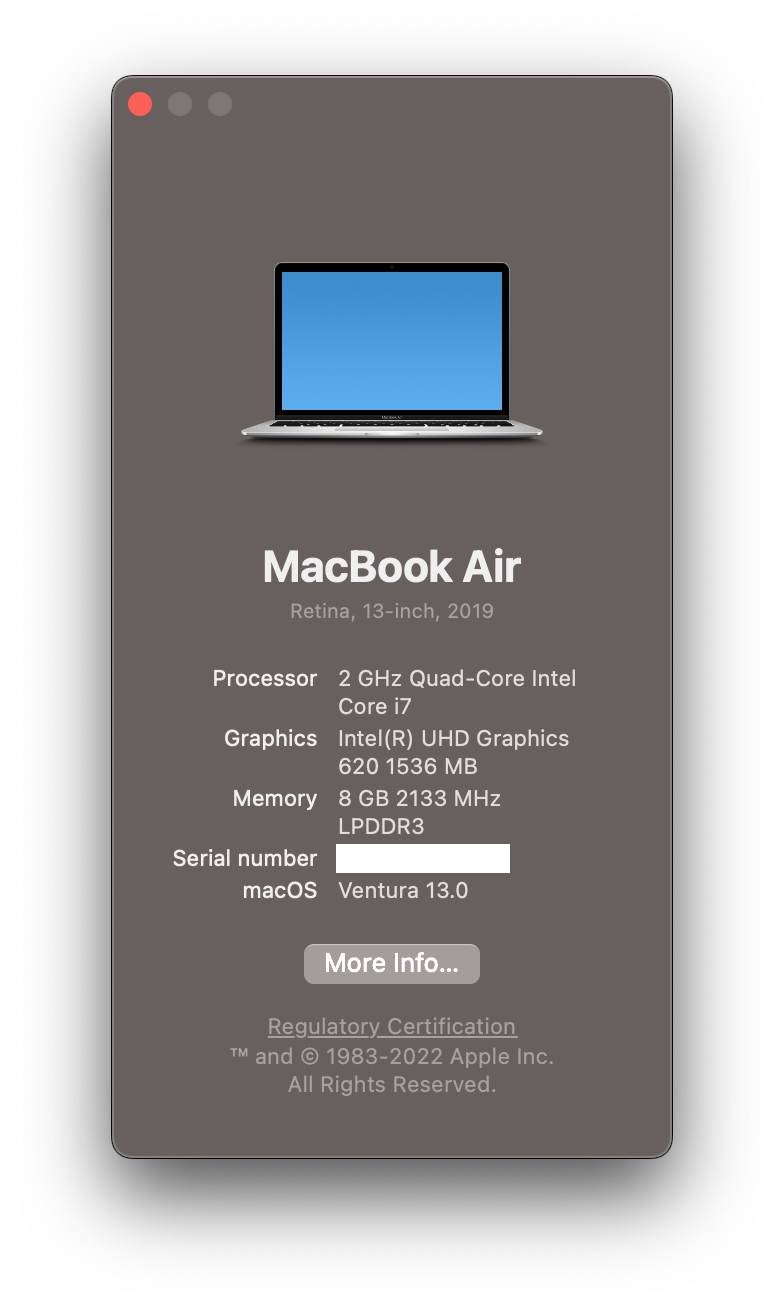
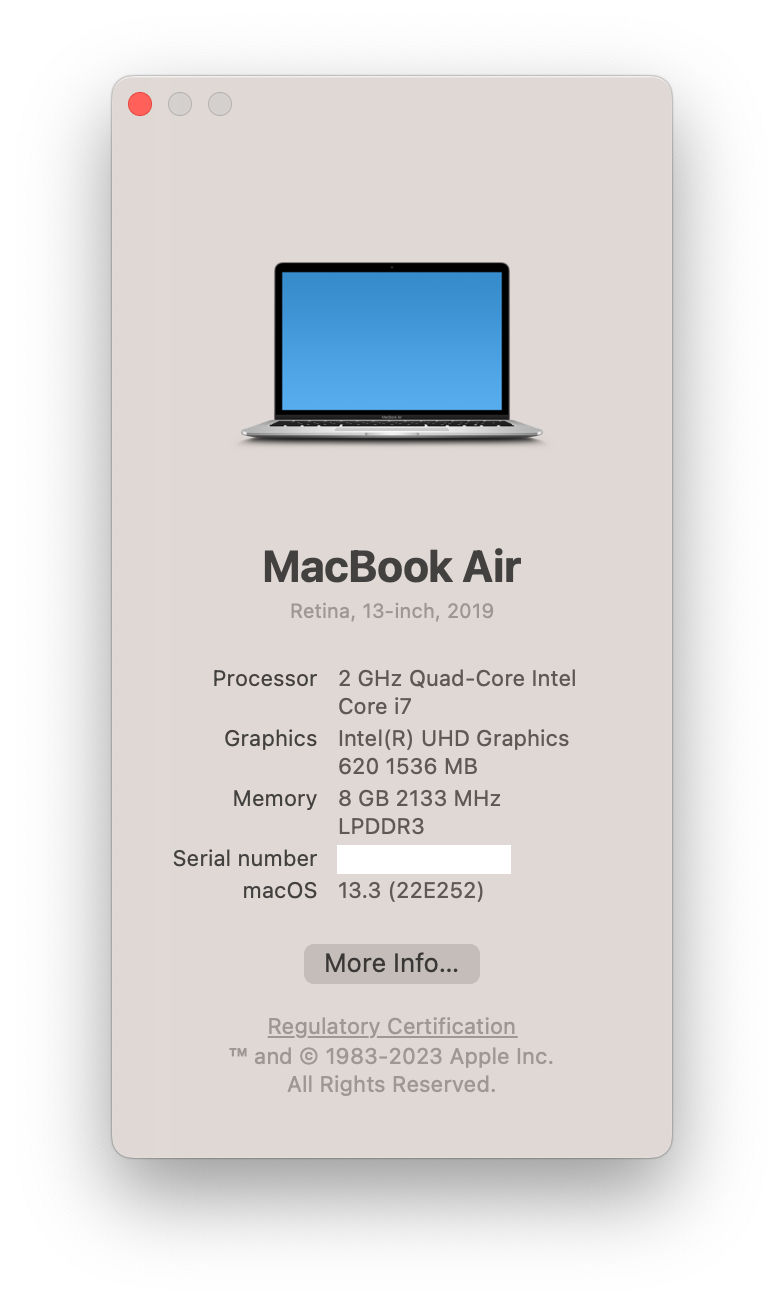
Thunderbolt Hotplug achieved

diff --git a/Readme.md b/Readme.md
@@ -29,7 +29,7 @@
 
 |    macOS    |   |   Status   |
 | :--- | :--- | :--- |
-|   <img src="Wiki/Images/assets_ventura.png" width=25 hspace=2 /> <a href="https://developer.apple.com/documentation/macos-release-notes/" target="_blank"><img src="https://img.shields.io/badge/macOS-Ventura-orange.svg" /></a>    |   `Stable` 13 (22A380)  »  13.2.1 (22D68) |   `Currently maintained`   |
+|   <img src="Wiki/Images/assets_ventura.png" width=25 hspace=2 /> <a href="https://developer.apple.com/documentation/macos-release-notes/" target="_blank"><img src="https://img.shields.io/badge/macOS-Ventura-orange.svg" /></a>    |   `Stable` 13 (22A380)  »  13.3 (22E252) |   `Currently maintained`   |
 |   <img src="Wiki/Images/assets_monterey.png" width=25 hspace=2 /> <a href="https://developer.apple.com/documentation/macos-release-notes/" target="_blank"><img src="https://img.shields.io/badge/macOS-Monterey-brightgreen.svg" /></a>   |   `Stable` 12.0.1 (21A559)  »  12.5.1 (21G83) |   `Compatible`   |
 |   <img src="Wiki/Images/assets_big_sur.png" width=25 hspace=2 /> <a href="https://developer.apple.com/documentation/macos-release-notes/" target="_blank"><img src="https://img.shields.io/badge/macOS-Big_Sur-brightgreen.svg" /></a>    |   `Stable` 11.0.1 (20B29)  »  11.6.8 (20G730) |   `Compatible`   |
 |   <img src="Wiki/Images/assets_catalina.png" width=25 hspace=2 /> <a href="https://developer.apple.com/documentation/macos-release-notes/" target="_blank"><img src="https://img.shields.io/badge/macOS-Catalina-brightgreen.svg" /></a>   |   `Stable` 10.15 (19A583)  »  10.15.7 (19H15) |   `Compatible`   |
@@ -81,7 +81,7 @@ Compare with [these](https://browser.geekbench.com/v5/cpu/search?utf8=✓&q=MacB
 
 ## Changelog
 
-#### 2023 - February - 19
+#### 2023 - April - 10
 See [**Current status »**](Changelog.md)
 
 <p align="center">
@@ -162,7 +162,7 @@ For privacy reasons, all SMBIOS information has been wiped out in the configurat
 - [x] Updated support for LiteON SSD PCIe NVMe 
 - [x] PCI Devices latency support and complete description for System Information app
 - [x] **USB Ports Mapping** (Type-A & Type-C) with proper power levels
-- [x] **Thunderbolt Port** (limited support)
+- [x] **Thunderbolt Port** (**with full native support**!)
 - [x] HD Camera
 - [x] NVRAM native support
 
@@ -864,7 +864,7 @@ log show --predicate 'process == "kernel"' --style syslog --source --debug --las
 
 | Item | Version | Remark |
 | :--- | :--- | :--- |
-| MacOS | 13.2.1 | |
+| MacOS | 13.3 | |
 | [OpenCore](https://github.com/acidanthera/OpenCorePkg/releases) | 0.8.9| Default Bootloader |
 | [Lilu](https://github.com/acidanthera/Lilu/releases) | 1.6.3 | Kext/process/framework/library patcher |
 | [WhateverGreen](https://github.com/acidanthera/whatevergreen/releases) | 1.6.4 | Handle Graphics card |

diff --git a/Changelog.md b/Changelog.md
@@ -2,6 +2,32 @@
 
 English
 
+- **04-10-2023**
+
+    **Very important announcement**: without the need to mess with hidden BIOS options nor to inject modified firmware into the appropriate chipset, I was able to both (seemingly) stably **load the native macOS drivers for the Thunderbolt controller** and get **the Thunderbolt hotplug working without the need to plug in a device at boot!**
+
+    What has been achieved so far:
+    - [x] Loading native macOS drivers for Thunderbolt Controller
+    - [x] Booting with Thunderbolt device connected
+    - [x] Thunderbolt Hotplug with Cold Boot
+    - [x] Thunderbolt Hotplug with Warm Boot
+    - [x] **Thunderbolt Hotplug with no Device Connected at Boot**
+    - [x] Sequence of multiple Thunderbolt Hotplug/unplug during same working session
+    - [x] Sleep with Thunderbolt Device Connected
+    - [x] Wake with Thunderbolt Device Connected
+    - [x] Shutdown with Thunderbolt Device Connected
+
+    What still needs to be done:
+    - [ ] Thunderbolt Auto Reconnect after Sleep (after wake OCW disk is still attached but it is not user accessible...)
+    - [ ] quantifying battery drain
+    - [ ] updating Thunderbolt notes on `Readme` file
+
+    Since everything else is working wonderfully, perhaps this could be the last substantial upgrade to the configuration!
+
+- **03-28-2023**
+
+    Update to **macOS Ventura 13.3 (22E252)**
+
 - **02-19-2023**
 
     **Update**
